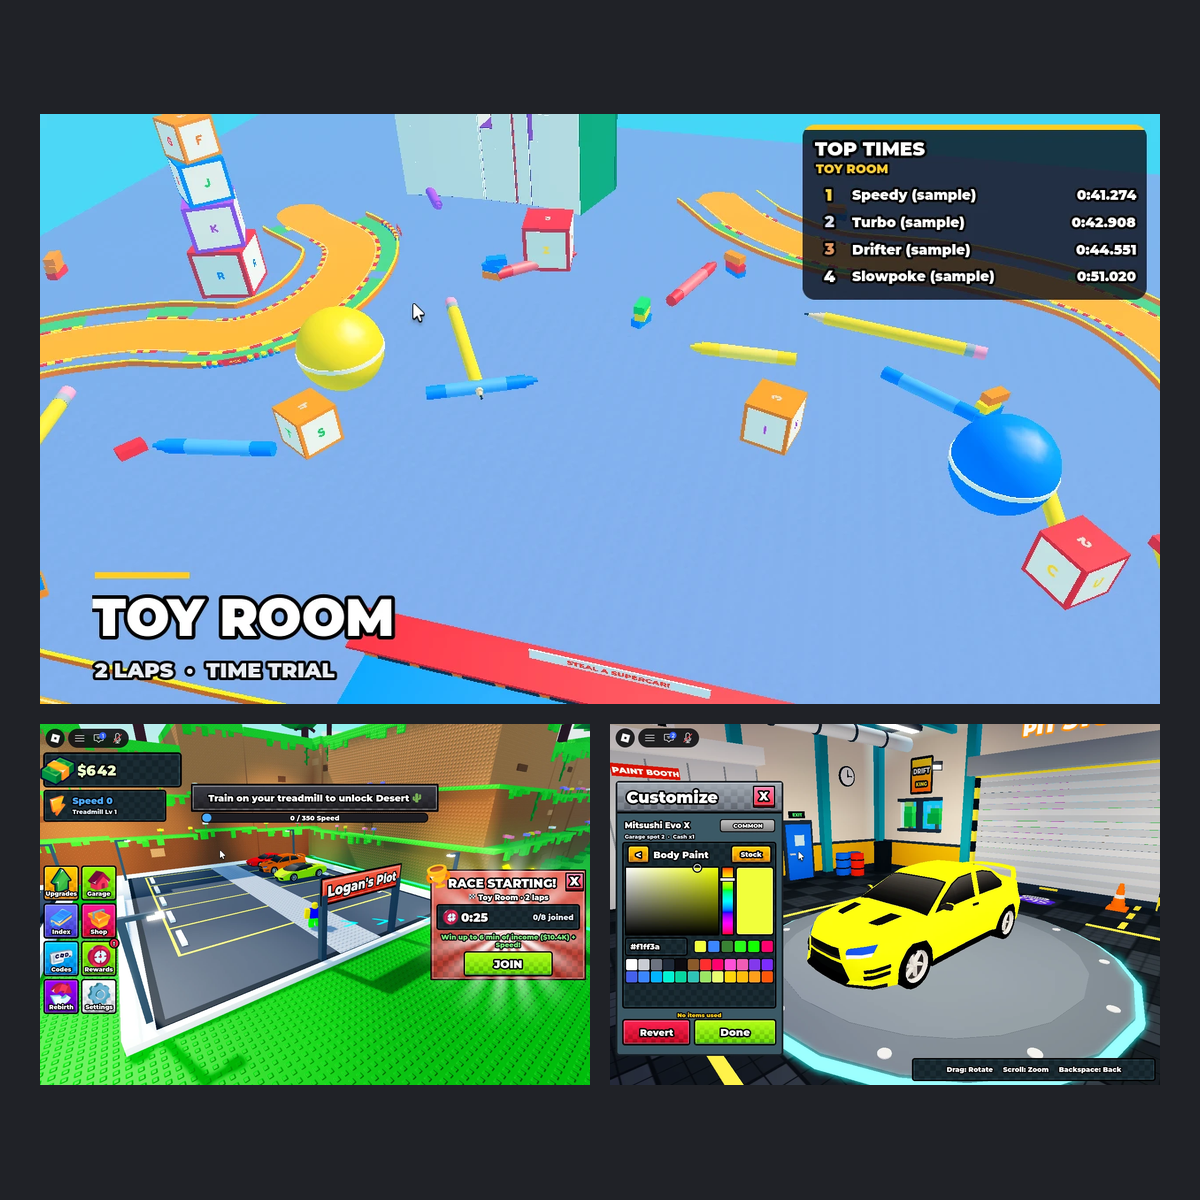
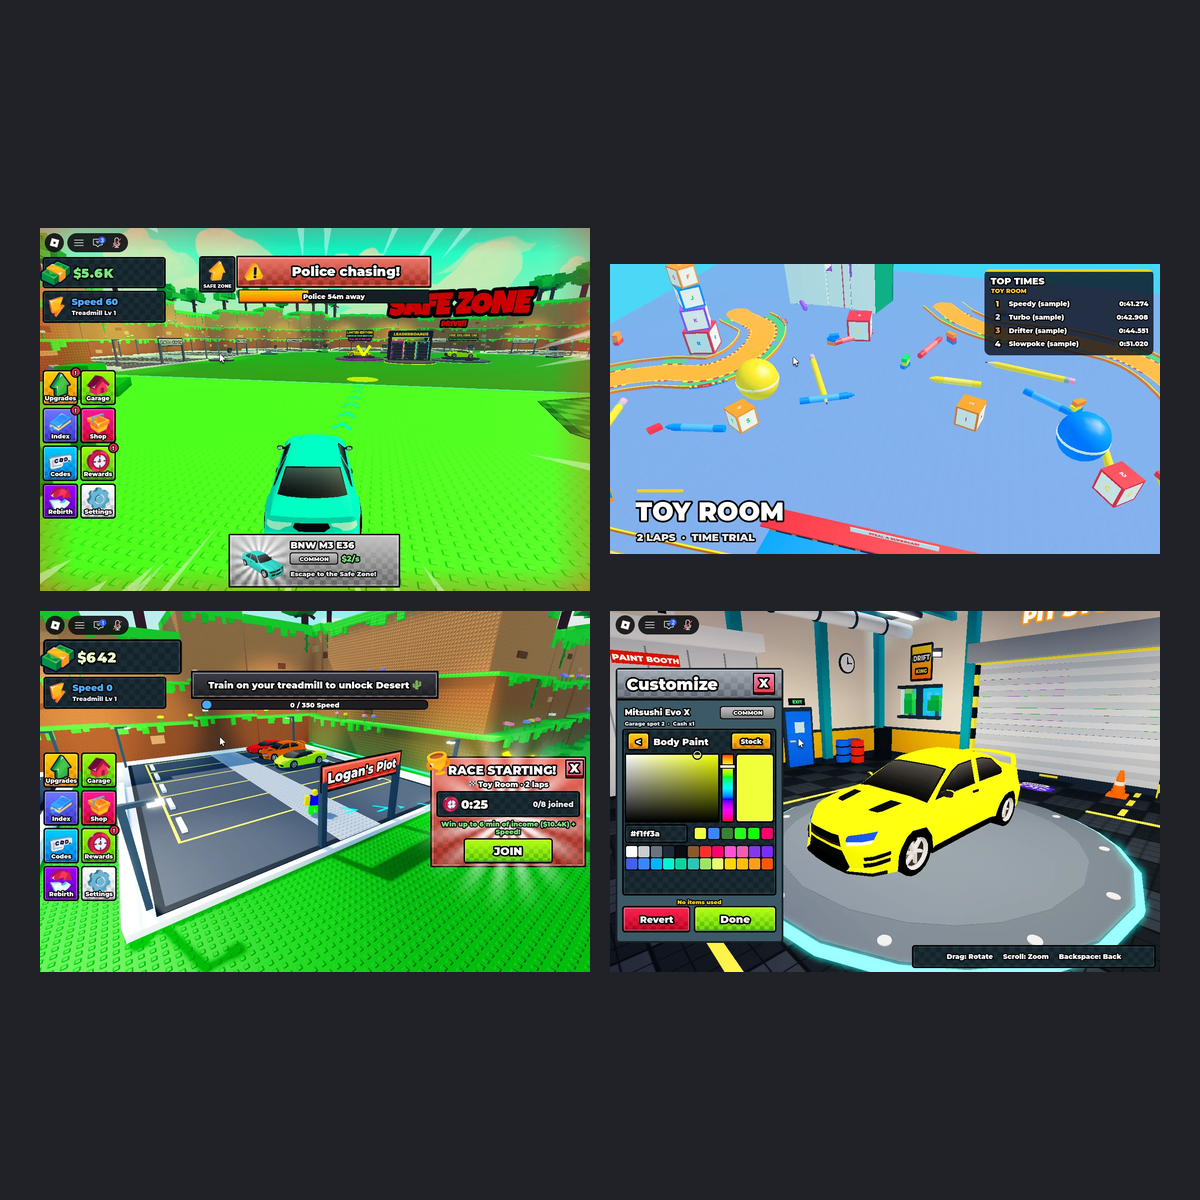
Use 2x2 grid for Steal a Supercar screenshots

diff --git a/README.md b/README.md
@@ -25,7 +25,7 @@ A 3D multiplayer car-stealing tycoon built from scratch with Rojo.
 * **Backend:** 30+ server services (ProfileStore saves, economy, rebirths, races, daily rewards, analytics) with rate-limited networking and an in-engine unit test runner.
 * **Outcome:** the game was sold to a development firm.
 
-<img width="450" height="450" alt="Steal a Supercar race track, player plot and car customizer" src="images/steal-a-supercar.png" />
+<img width="450" height="450" alt="Steal a Supercar police chase, race track, player plot and car customizer" src="images/steal-a-supercar.png" />
 
 ### Depot Dash
 A colour-matching bus puzzle game.
